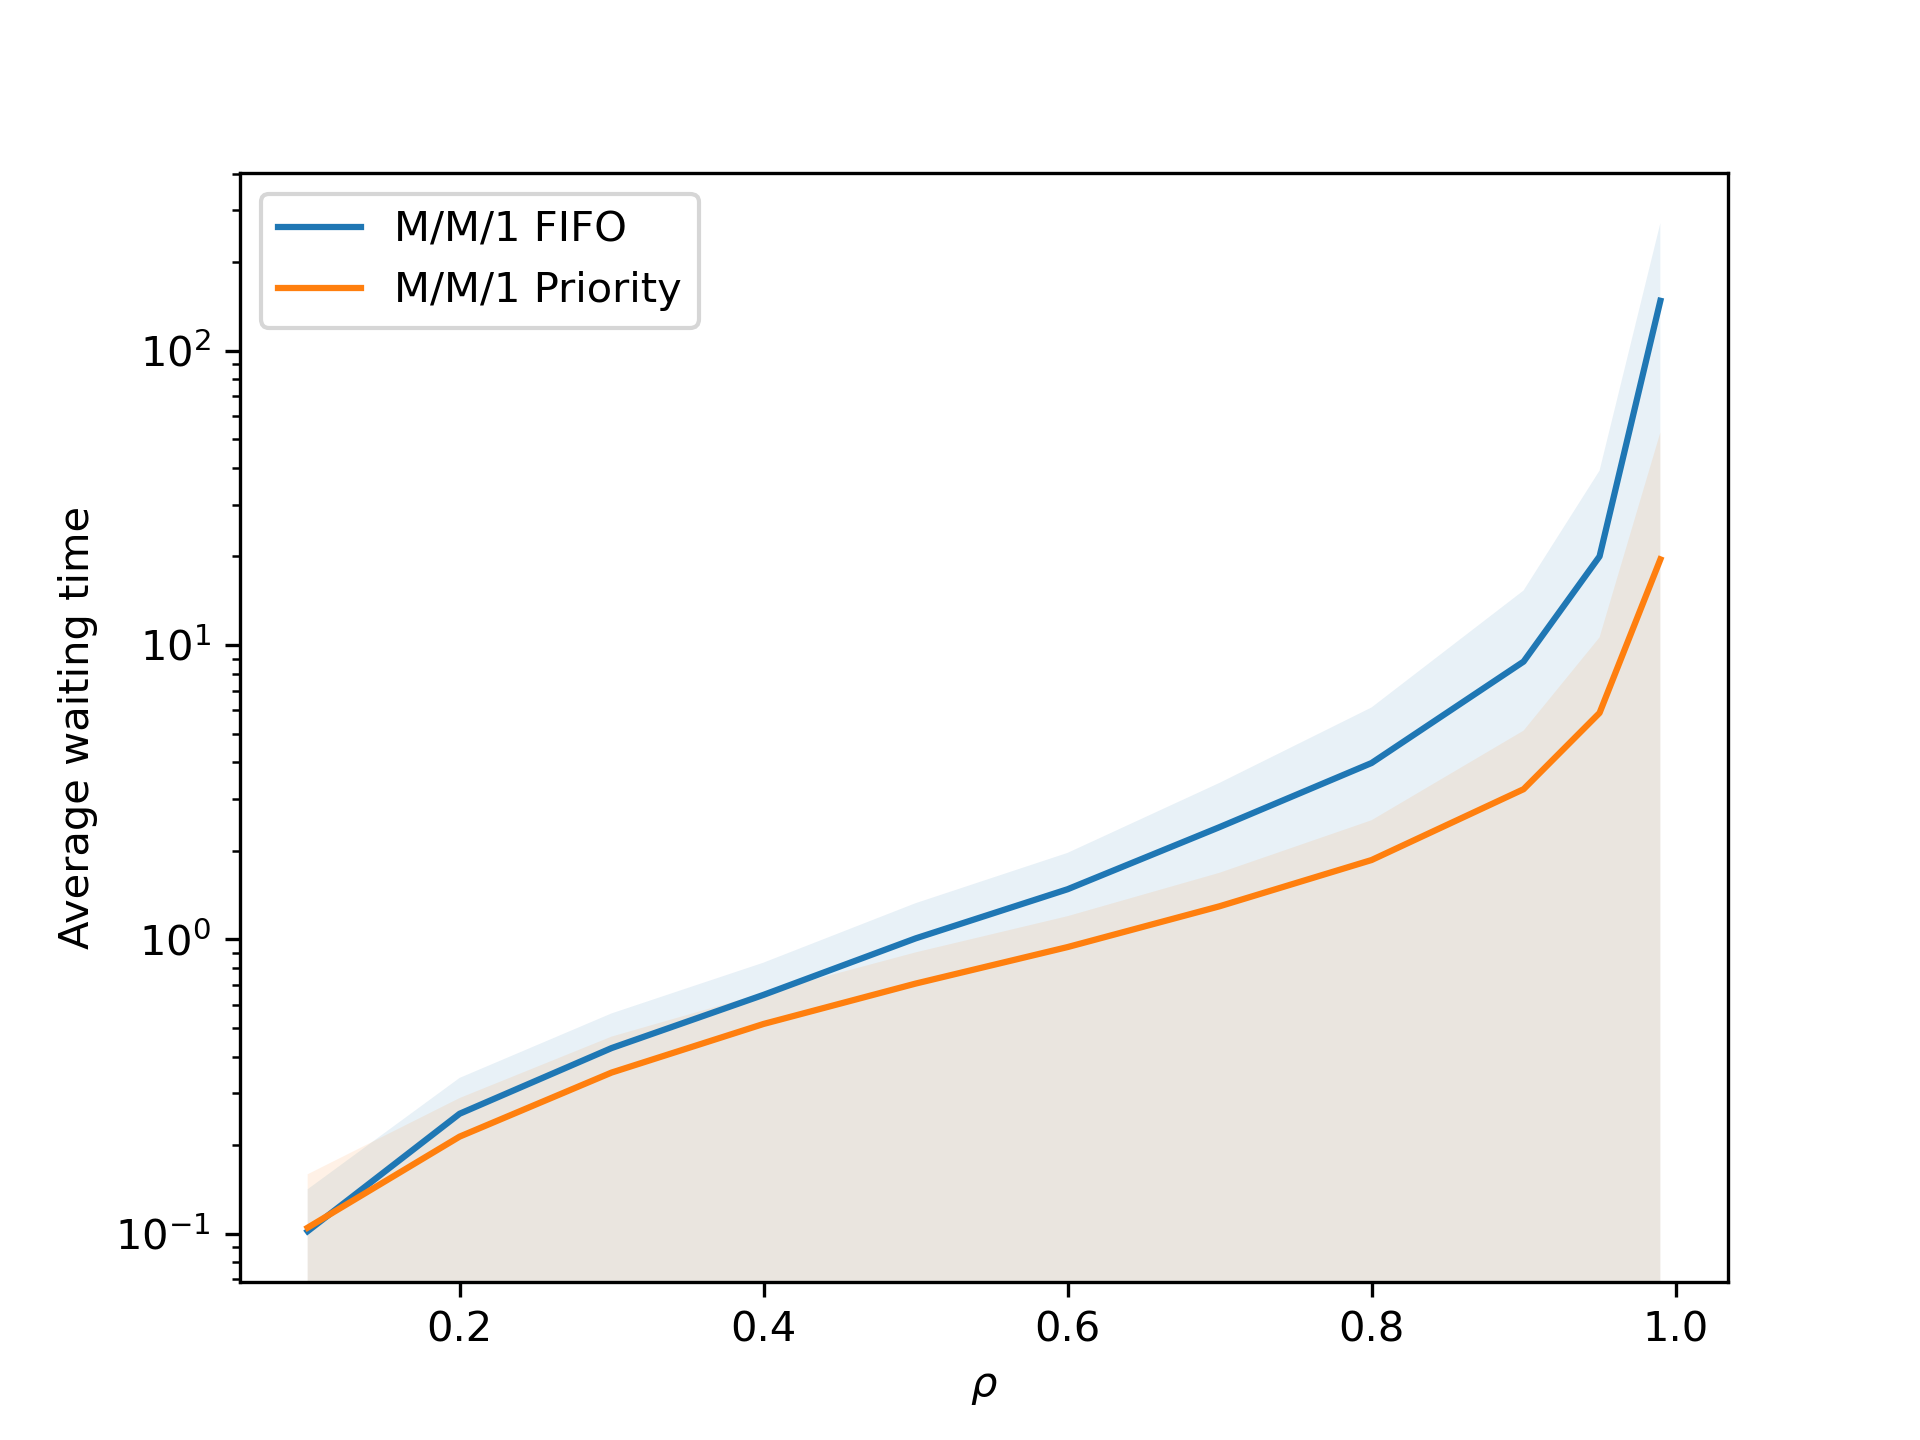
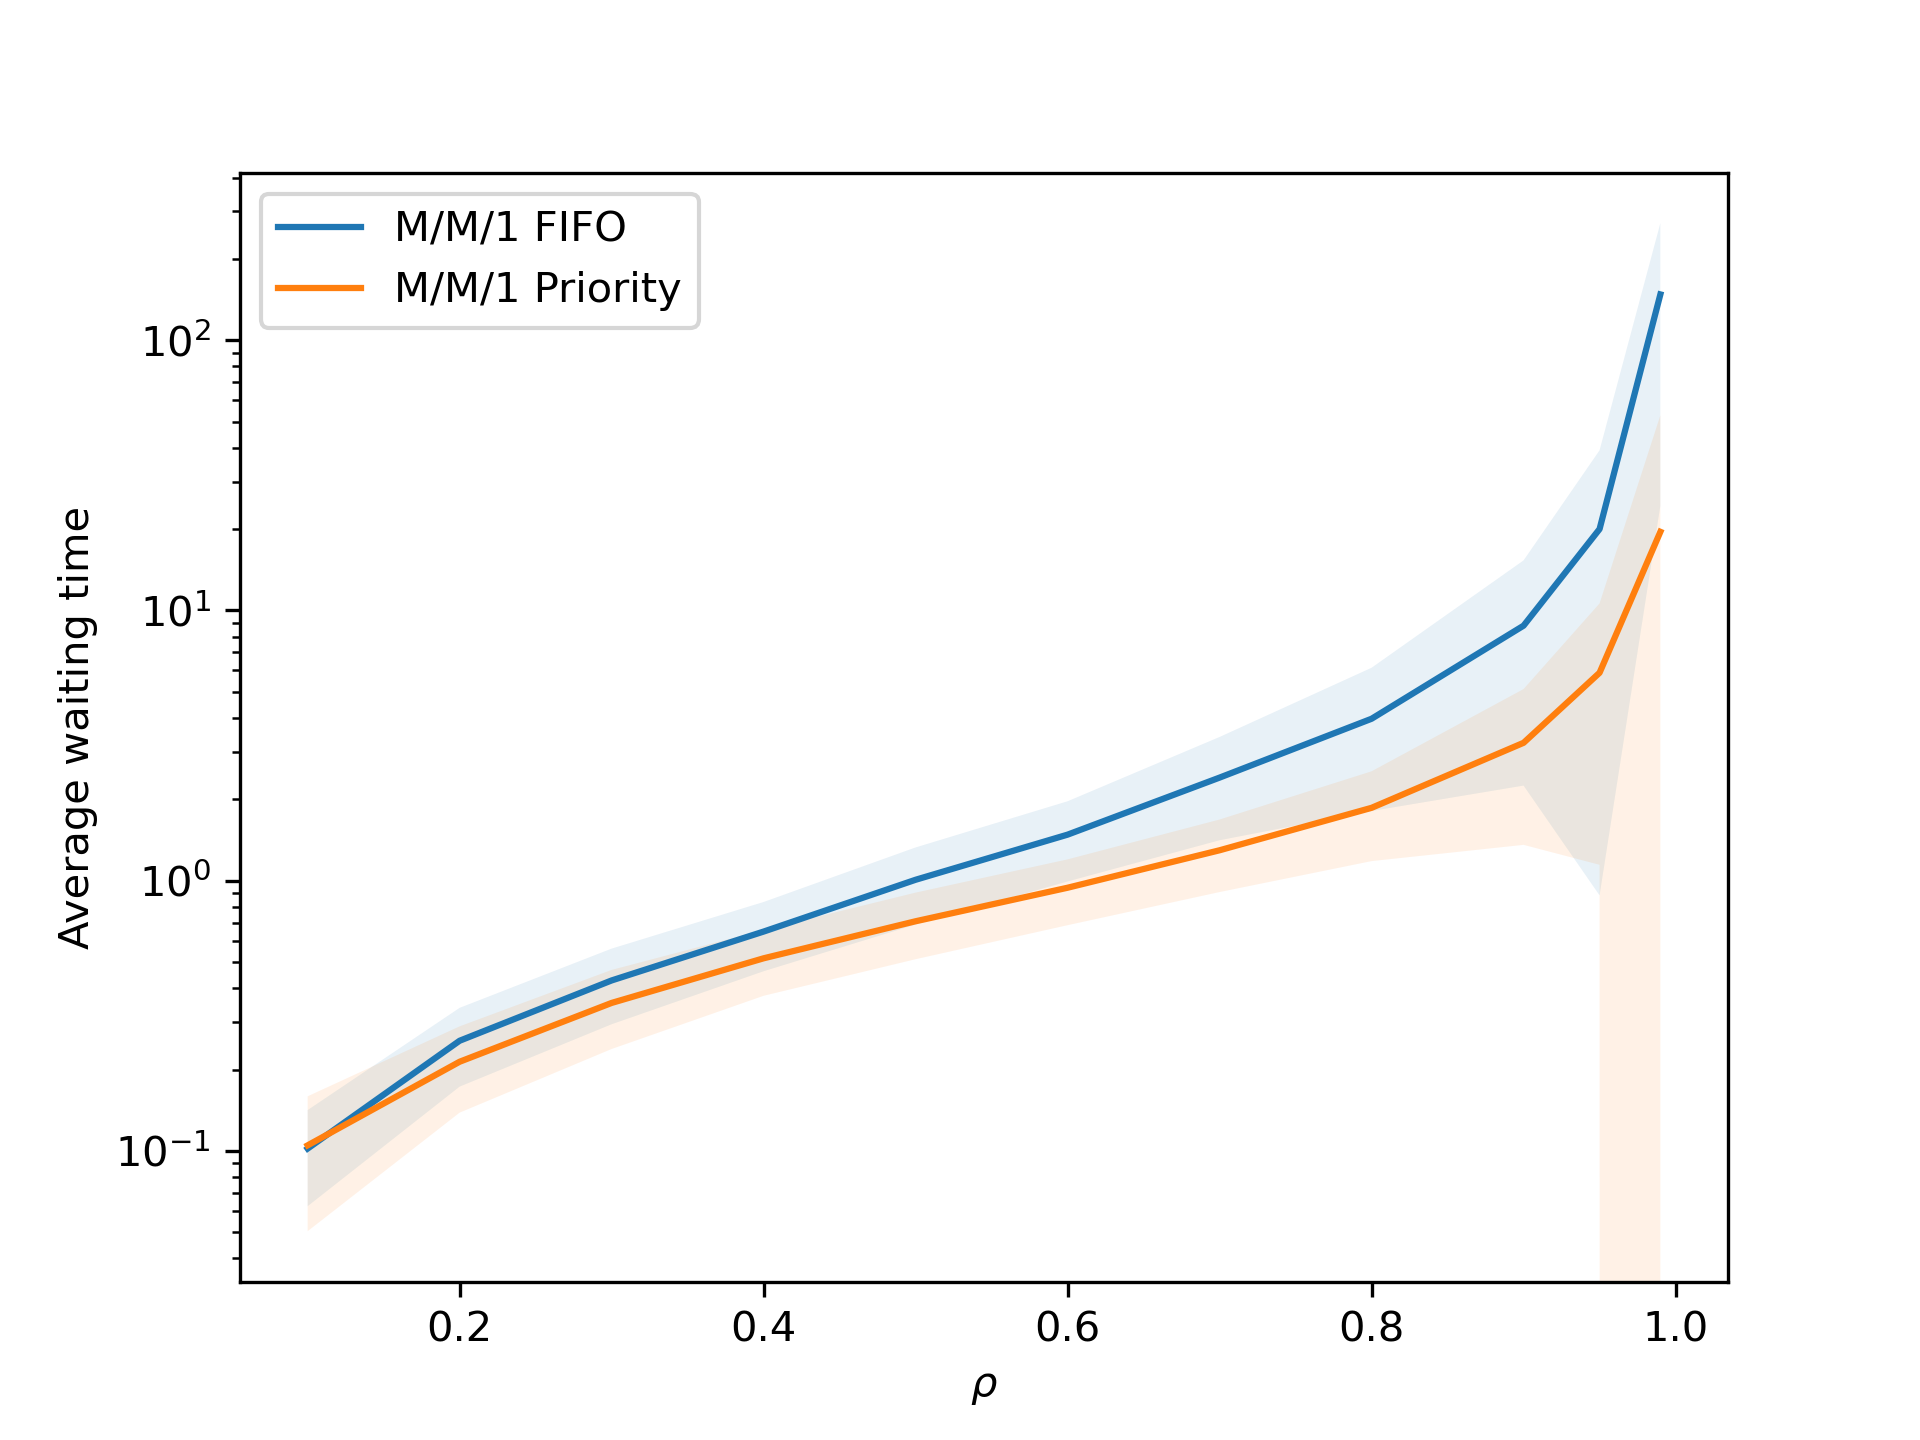
Results Assignment 2

diff --git a/Assignment2/code/plot.py b/Assignment2/code/plot.py
@@ -5,7 +5,7 @@ import os
 import pandas as pd
 import numpy as np
 
-experiments = [0, 1]
+experiments = [0, 2, 3]
 server_count = [1]
 
 for exp in experiments:
@@ -20,25 +20,36 @@ for exp in experiments:
 
         means.append(df.groupby('rho')['waiting_time'].mean())
         stdevs.append(df.groupby('rho')['waiting_time'].std())
+    #print(stdevs)
 
     # plot
     for i in range(len(server_count)):
         if exp == 0:
             system_name = 'M/M/' + str(server_count[i]) + ' FIFO'
         elif exp == 1:
-
             system_name = 'M/M/' + str(server_count[i]) + ' Priority'
+        elif exp == 2:
+            system_name = 'M/H/' + str(server_count[i])
+        elif exp == 3:
+
+            system_name = 'M/D/' + str(server_count[i])
 
         mean = means[i]
         stdev = stdevs[i]
 
+        print(server_count[i])
+        print(mean)
+        print(stdev)
+        print()
+
         plt.plot(mean, label=system_name)
-        plt.fill_between(rhos, mean+stdev,alpha=.1,)
+        plt.fill_between(rhos, mean-stdev, mean+stdev,alpha=.1,)
         plt.yscale('log')
         plt.legend()
         plt.xlabel(r'$\rho$')
         plt.ylabel('Average waiting time')
+        #plt.show()
 
-fig_name = '../plots/exp1_means_std' #.format(exp)
+fig_name = '../plots/exp0123_means_std' #.format(exp)
 plt.savefig(fig_name,dpi=300)
 plt.show()
